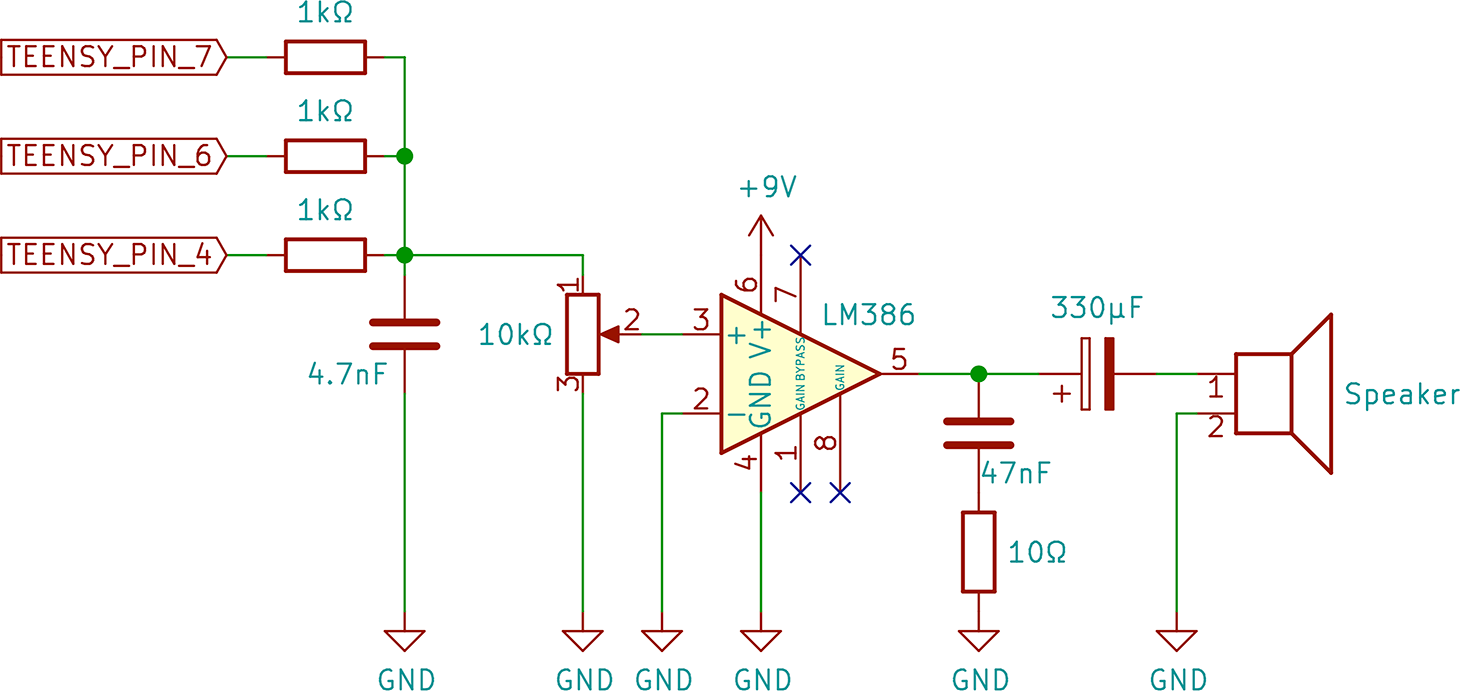
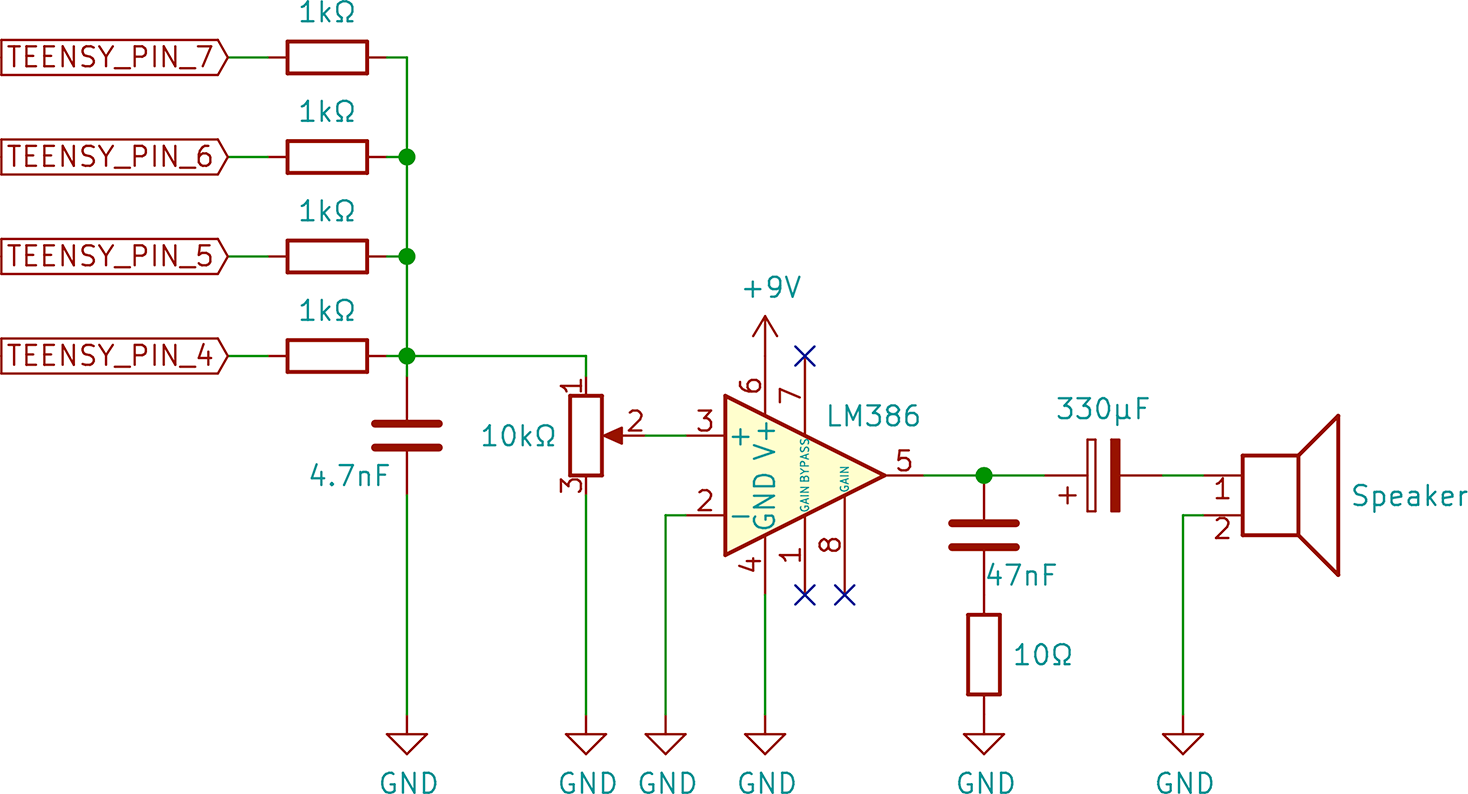
Update audio wiring documentation for wave channel

diff --git a/README.md b/README.md
@@ -11,7 +11,7 @@ This is a work-in-progress Gameboy emulator for the Teensy platform. It requires
 
 - Runs Tetris
 - Passes Blargg's CPU instruction tests
-- 3 channel audio output (wave channel is missing)
+- Audio output (4 separate channels)
 
 ## Dependencies
 
